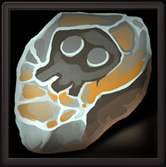
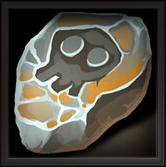
sharp variant: bottom light, darker top edge, truly square outer corners

diff --git a/tools/README.md b/tools/README.md
@@ -83,6 +83,11 @@ python3 tools/cut_icons.py --style sharp --radius 0 --n 1 --out cutouts_styled
 (без скругления). Радиус скругления можно задать вручную: `--radius 0` —
 прямые углы.
 
+У `sharp` источник света снизу (`light="bottom"`): блик и подсветка борта идут
+по нижней/правой кромке, верхняя остаётся тёмной — глубина читается снизу.
+Внешняя часть при `radius = 0` считается по L∞-метрике (`sharp_outside`),
+поэтому прямые углы сохраняются и у внешней кромки борта.
+
 ## Нарезка иконок с обводкой
 
 ```bash
